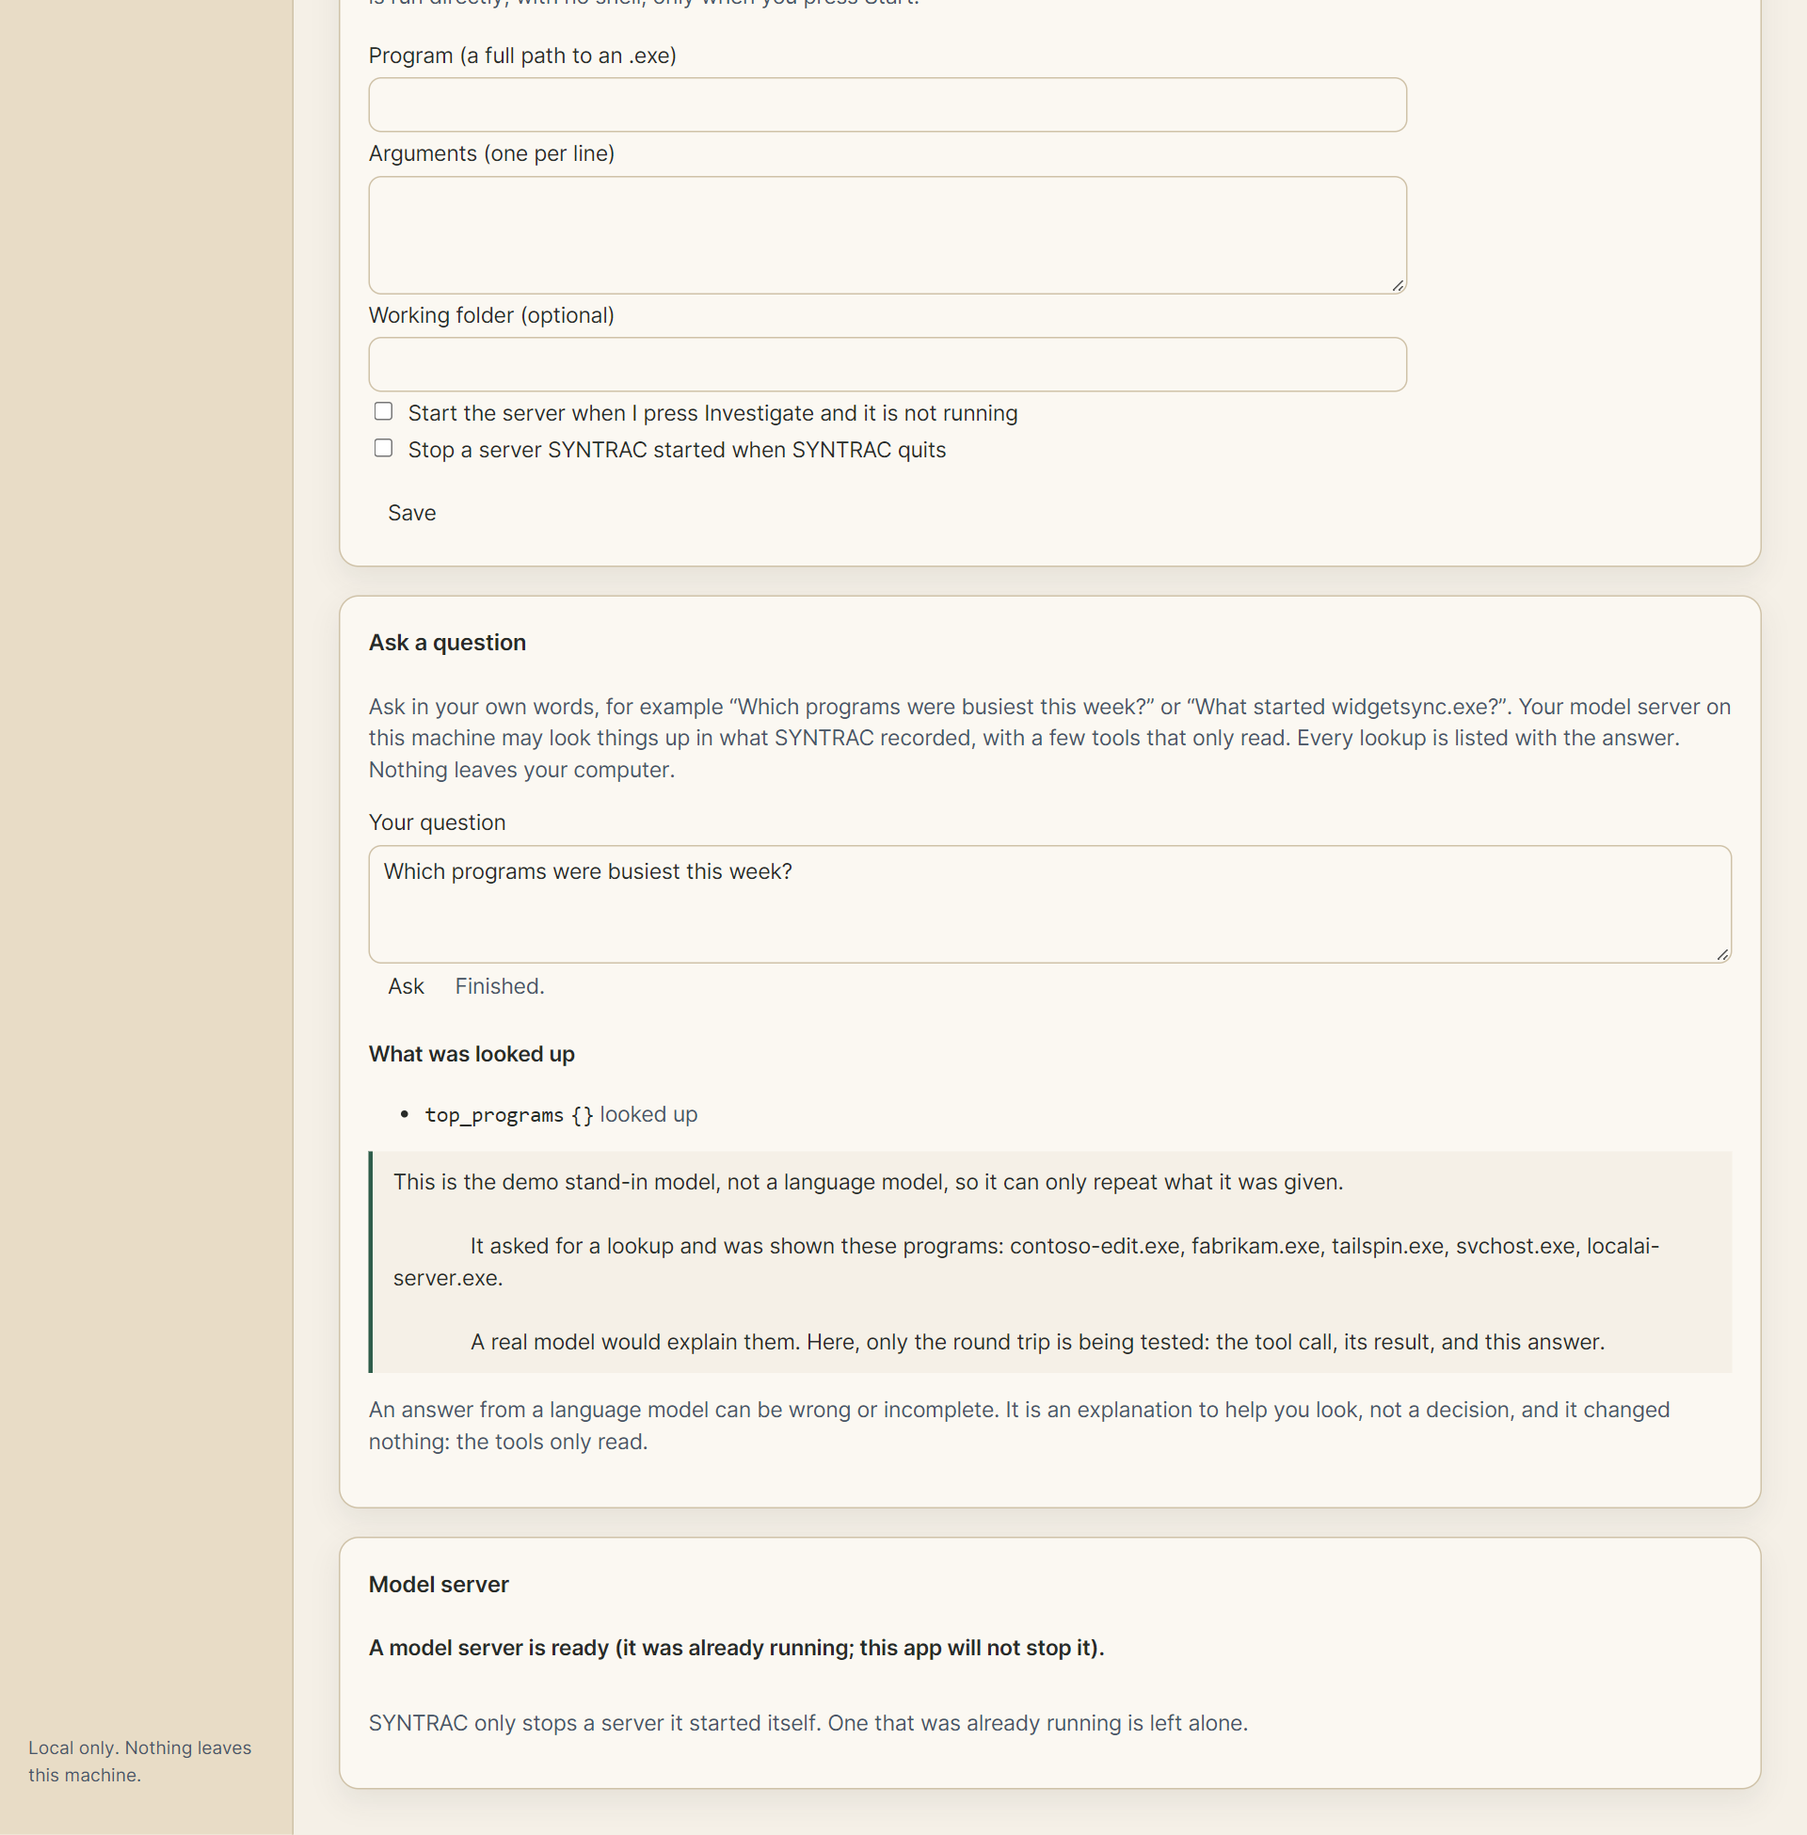
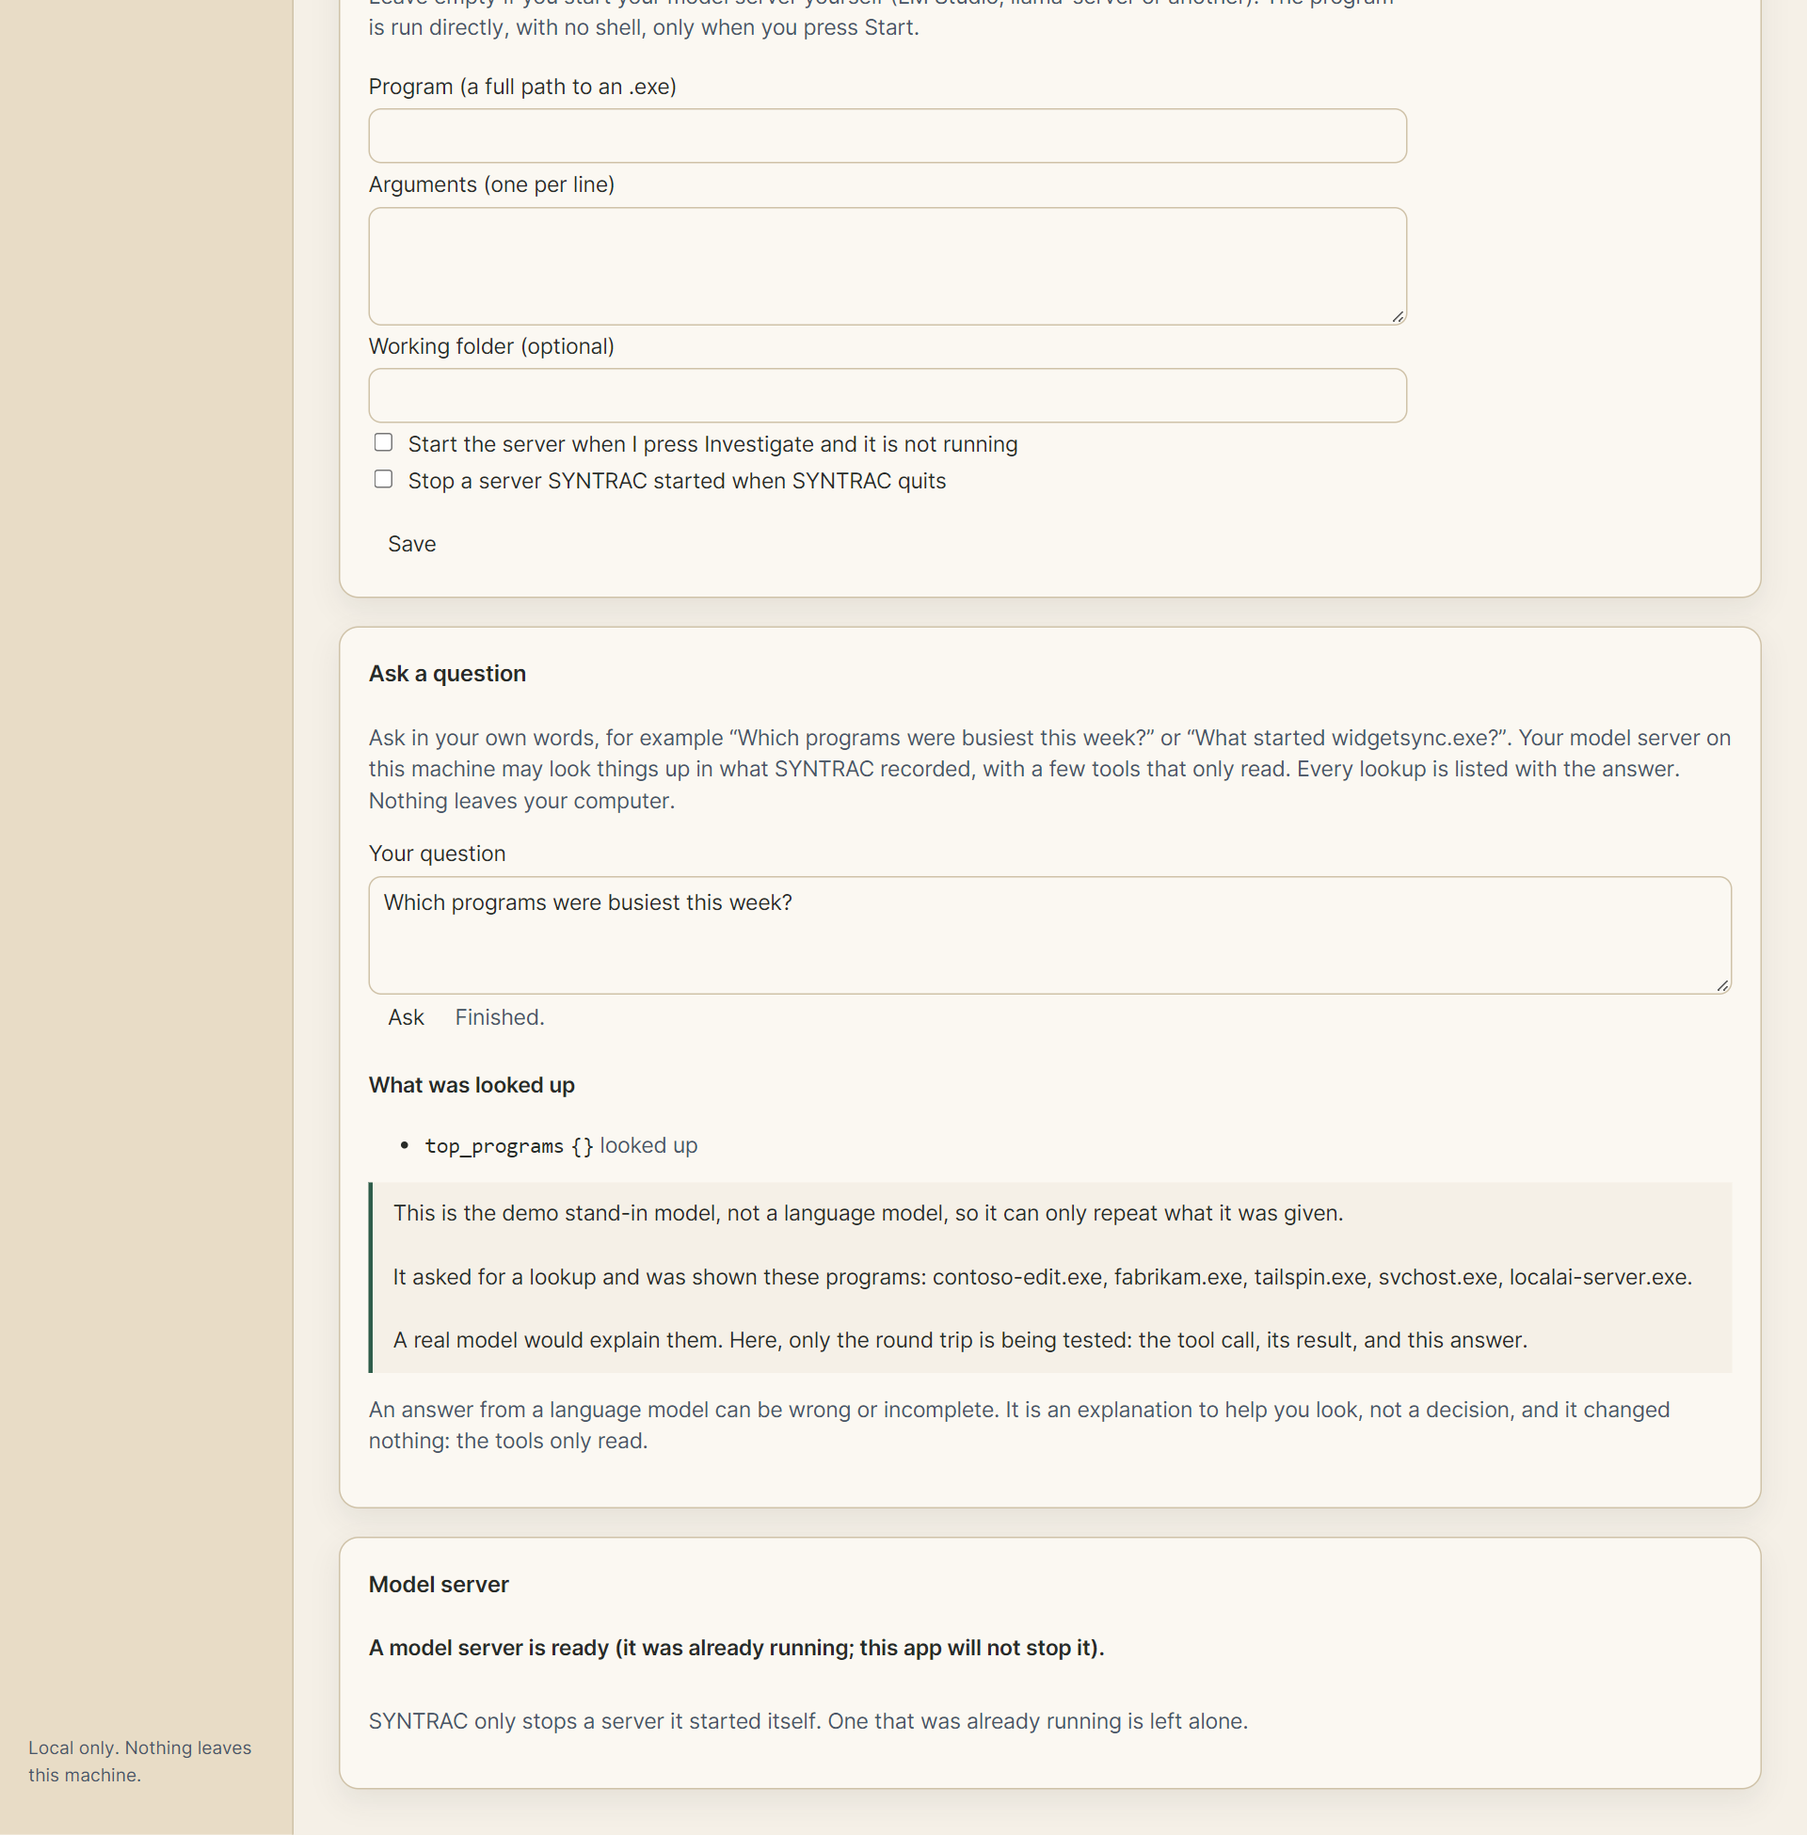
Question box: Stop shows at once, whole-answer wait, placeholders kept
Stop sets the question to cancelled immediately (a non-streamed turn cannot
be interrupted) and drops a late answer. A tool turn waits for the whole
answer instead of ten minutes for headers. The user and address
placeholders the tools write reach the model unchanged. The plan, guide and
README are brought up to date, and the stand-in text is tidied.

Claude-Session: https://claude.ai/code/session_014haUM8LbVwjUZU2iuuWaBV

diff --git a/app/src-tauri/src/question_job.rs b/app/src-tauri/src/question_job.rs
@@ -108,10 +108,13 @@ impl Job {
         self.cancel.load(Ordering::SeqCst)
     }
 
+    /// Ends the job in `phase`, unless Stop already did: a cancelled job stays cancelled whatever the worker finds out later.
     fn finish(&self, phase: Phase, error: Option<String>) {
         let mut state = self.lock();
-        state.phase = phase;
-        state.error = error;
+        if state.phase != Phase::Cancelled {
+            state.phase = phase;
+            state.error = error;
+        }
     }
 }
 
@@ -283,6 +286,12 @@ impl Questioner {
     pub fn cancel(&self, id: u64) {
         if let Some(job) = self.find(id) {
             job.cancel.store(true, Ordering::SeqCst);
+            // A turn of a slow model can take minutes and cannot be interrupted, so the page is told now; the worker's late result is dropped.
+            let mut state = job.lock();
+            if matches!(state.phase, Phase::Waiting | Phase::Running) {
+                state.phase = Phase::Cancelled;
+                state.stopped = Some(stop_name(StopReason::Cancelled));
+            }
         }
     }
 
@@ -317,7 +326,12 @@ fn run(
             Err(WaitEnd::Failed(message)) => return job.finish(Phase::Failed, Some(message)),
         }
     }
-    job.lock().phase = Phase::Running;
+    {
+        let mut state = job.lock();
+        if state.phase == Phase::Waiting {
+            state.phase = Phase::Running;
+        }
+    }
     match run_question_loop(server, registry, setup, question, job) {
         Ok(outcome) => record_outcome(job, outcome),
         Err(_) if job.cancelled() => job.finish(Phase::Cancelled, None),
@@ -332,6 +346,10 @@ fn run(
 fn record_outcome(job: &Job, outcome: LoopOutcome) {
     let phase = if outcome.stopped == StopReason::Cancelled { Phase::Cancelled } else { Phase::Done };
     let mut state = job.lock();
+    if state.phase == Phase::Cancelled {
+        // Stop was pressed while the model was still working: what arrives now is not shown.
+        return;
+    }
     state.answer = outcome.answer;
     state.truncated = outcome.cut_off;
     state.reasoning_chars = outcome.reasoning_chars;

diff --git a/app/src-tauri/tests/question_job.rs b/app/src-tauri/tests/question_job.rs
@@ -254,3 +254,44 @@ fn every_call_the_model_made_is_listed_for_the_page() {
     let view = finished(&questioner, id);
     assert_eq!(view.calls.iter().map(|c| c.name.as_str()).collect::<Vec<_>>(), ["top_programs"]);
 }
+
+/// A model whose turn does not return until it is released (or a few seconds pass), like a slow model thinking for minutes.
+struct Gate(Arc<std::sync::atomic::AtomicBool>);
+
+impl LlmService for Gate {
+    fn state(&self) -> ServerState {
+        ServerState::Ready
+    }
+
+    fn stream_chat(&self, _: &ChatRequest, _: &mut dyn FnMut(StreamEvent) -> Flow) -> Result<(), LlmError> {
+        Err(LlmError::BadResponse("not streamed".into()))
+    }
+
+    fn chat_turn(&self, _: &TurnRequest) -> Result<TurnReply, LlmError> {
+        let begin = Instant::now();
+        while !self.0.load(std::sync::atomic::Ordering::SeqCst) && begin.elapsed() < Duration::from_secs(5) {
+            std::thread::sleep(Duration::from_millis(5));
+        }
+        says("a late answer")
+    }
+}
+
+#[test]
+fn stop_shows_at_once_even_while_a_turn_is_still_being_waited_for_and_the_late_answer_is_dropped() {
+    let release = Arc::new(std::sync::atomic::AtomicBool::new(false));
+    let gate = Arc::clone(&release);
+    let service: ServiceFactory = Arc::new(move |_| Box::new(Gate(Arc::clone(&gate))));
+    let questioner = questioner(service, true);
+    let id = questioner.start("What is busy?").unwrap();
+
+    questioner.cancel(id);
+    let at_once = questioner.poll(id).unwrap();
+    assert_eq!(at_once.phase, "cancelled", "the page must not keep saying the model is working");
+    assert_eq!(at_once.stopped.as_deref(), Some("cancelled"));
+
+    release.store(true, std::sync::atomic::Ordering::SeqCst);
+    std::thread::sleep(Duration::from_millis(100));
+    let later = questioner.poll(id).unwrap();
+    assert_eq!(later.phase, "cancelled");
+    assert_eq!(later.answer, "", "an answer that arrives after Stop is not shown");
+}

diff --git a/crates/syntrac-core/src/question_loop.rs b/crates/syntrac-core/src/question_loop.rs
@@ -26,6 +26,8 @@ const CUT_NOTE_RESERVE: usize = 64;
 /// How much of a call's arguments the page is shown.
 const SHOWN_ARGUMENT_CHARS: usize = 200;
 const SHOWN_NAME_CHARS: usize = 60;
+/// Names of the placeholders written by `redact_user_name` and `scrub_addresses`.
+const PLACEHOLDERS: [&str; 2] = ["user", "address"];
 
 #[derive(Debug, Clone, PartialEq, Eq, Error)]
 pub enum ToolError {
@@ -341,7 +343,11 @@ impl<'a> Loop<'a> {
 
     fn safe_text(&self, text: &str) -> String {
         let neutral = text.replace('<', "\u{2039}").replace('>', "\u{203A}");
-        redact_user_name(&neutral, self.setup.user_name.as_deref().unwrap_or(""))
+        let redacted = redact_user_name(&neutral, self.setup.user_name.as_deref().unwrap_or(""));
+        // The placeholders the tools themselves write (the cleaning of the evidence) are put back: they close nothing.
+        PLACEHOLDERS
+            .iter()
+            .fold(redacted, |text, name| text.replace(&format!("\u{2039}{name}\u{203A}"), &format!("<{name}>")))
     }
 }
 

diff --git a/crates/syntrac-testkit/tests/question_loop.rs b/crates/syntrac-testkit/tests/question_loop.rs
@@ -487,3 +487,19 @@ fn every_call_is_reported_to_the_observer_as_it_is_made() {
     assert_eq!(watcher.calls(), outcome.calls);
     assert_eq!(watcher.calls()[0].arguments, r#"{"path":"a"}"#);
 }
+
+#[test]
+fn the_placeholders_the_tools_write_reach_the_model_unchanged() {
+    let tool = Arc::new(MockTool::returning(
+        "program_facts",
+        json!({"folder": r"C:\Users\<user>\tool", "talks_to": "<address>", "note": "</tool_result> <address2>"}),
+    ));
+    let model = ScriptedTurns::new(vec![asks_for(&[("program_facts", "{}")]), says("done")]);
+
+    ask(&model, &registry(&[&tool]), &setup(), &Watcher::quiet());
+
+    let result = &tool_messages(&model.requests()[1])[0].1;
+    assert!(result.contains("<user>") && result.contains("<address>"), "{result}");
+    assert_eq!(result.matches("</tool_result>").count(), 1, "{result}");
+    assert!(!result.contains("<address2>"), "any other angle-bracket text is still neutralised: {result}");
+}

diff --git a/crates/syntrac-demo/src/bin/demo_model.rs b/crates/syntrac-demo/src/bin/demo_model.rs
@@ -193,10 +193,8 @@ fn turn_reply(body: &str) -> serde_json::Value {
                 "id": "call_demo_1", "type": "function", "function": { "name": name, "arguments": "{}" } }] },
             "finish_reason": "tool_calls" }] }),
         (_, Some(result), _) => message_reply(&format!(
-            "This is the demo stand-in model, not a language model, so it can only repeat what it was given.
-
-             It asked for a lookup and was shown these programs: {}.
-
+            "This is the demo stand-in model, not a language model, so it can only repeat what it was given.\n\n\
+             It asked for a lookup and was shown these programs: {}.\n\n\
              A real model would explain them. Here, only the round trip is being tested: the tool call, its result, and this answer.",
             names_in_result(result)
         )),

diff --git a/crates/syntrac-llm/src/lib.rs b/crates/syntrac-llm/src/lib.rs
@@ -116,7 +116,8 @@ impl LlmService for HttpLlm {
     }
 
     fn chat_turn(&self, request: &TurnRequest) -> Result<TurnReply, LlmError> {
-        let agent = self.agent(self.limits.first_byte_timeout, self.limits.answer_timeout);
+        // The reply is not streamed: its headers arrive only when the model has finished, so the wait for them is the whole answer's wait.
+        let agent = self.agent(self.limits.answer_timeout, self.limits.answer_timeout);
         let body = turn_body(request).to_string();
         let mut response = agent
             .post(&self.endpoint.api_url("/chat/completions"))

diff --git a/crates/syntrac-llm/tests/http_turn.rs b/crates/syntrac-llm/tests/http_turn.rs
@@ -126,6 +126,6 @@ fn a_server_that_is_not_running_is_reported_as_such() {
 #[test]
 fn a_server_that_never_answers_times_out() {
     let server = FakeServer::start(|_| fake_server::Reply { raw: String::new(), delay: Duration::from_secs(5) });
-    let limits = HttpLimits { first_byte_timeout: Duration::from_millis(200), ..HttpLimits::default() };
+    let limits = HttpLimits { answer_timeout: Duration::from_millis(200), ..HttpLimits::default() };
     assert_eq!(client_with(&server.endpoint(), limits).chat_turn(&turn(true)).unwrap_err(), LlmError::TimedOut);
 }

diff --git a/docs/PHASE5-PLAN.md b/docs/PHASE5-PLAN.md
@@ -8,7 +8,7 @@ before the commit. Pushed once per phase, when asked.
 | 0 | Split `api/types.ts` and `test/fakeApi.ts` by topic (no logic change) | done, `0ca0530` |
 | A1 | History, **Process tree**: who started whom (`aiChangeLog/phase-A1-process-tree.md`) | done, `991e183` |
 | A2 | History, **Connection map**: which programs talked to which networks (`aiChangeLog/phase-A2-connection-map.md`) | done, `48eb720` |
-| B | **L4e** free-form question box for the AI help, with read-only tools (`aiChangeLog/phase-B-question-box.md`) | built, committing |
+| B | **L4e** free-form question box for the AI help, with read-only tools (`aiChangeLog/phase-B-question-box.md`) | done, `16e2754` + `445c878` |
 | C | Windows **installer** (NSIS via Tauri) that installs the app and the service | next |
 
 Out of scope for now: a day timeline and a global search.
@@ -20,6 +20,8 @@ Out of scope for now: a day timeline and a global search.
 - **Safety:** no tool can write, start or stop anything. Arguments are validated; unknown tools are refused. Results get the same reductions as the
   current evidence (user name replaced, detail level respected), are cleaned and size-capped, and are marked as data in the prompt. Loopback only.
   The page lists every tool call that was made.
+- **As built:** four tools, not five: a program's destinations are part of `program_facts`. Tool turns are not streamed. Answers to questions are
+  not saved.
 - **Dependency:** OpenAI-style native tool calling, which some servers need a flag for (for example `--jinja` on `llama-server`). If the server does
   not support it, the box says so.
 

diff --git a/aiChangeLog/phase-B-question-box.md b/aiChangeLog/phase-B-question-box.md
@@ -29,6 +29,15 @@ only read. Off unless the AI help is on; nothing runs until **Ask** is pressed.
 - **Server without tool support.** llama-server answers an error when started without its template option; the page says so in generic terms and names that option. A server that ignores `tools` and answers in text is simply a final answer.
 - **Tools are not saved.** Unlike Investigate, answers to questions are not kept.
 
+## Review fixes (after the first commit)
+- Stop shows **at once**: a non-streamed turn cannot be interrupted, so `cancel` sets the job to cancelled immediately and a late answer is dropped (test with a model that blocks).
+- `chat_turn` waits for the whole answer, not 10 minutes for headers (the first-byte timeout only covers the headers, which a non-streamed reply sends last).
+- The `<user>` and `<address>` placeholders the tools write reach the model unchanged; any other angle-bracket text is still neutralised.
+- The stand-in model's text no longer has stray indentation.
+
+## Not yet checked
+The round trip has only run against the stand-in model. It has not been run against a real tool-calling server.
+
 ## Also fixed
 - Process tree (A1): the window is read newest first up to 20,000 processes; the view now says when more existed (commit `563c50d`).
 

diff --git a/docs/USER-GUIDE.md b/docs/USER-GUIDE.md
@@ -270,7 +270,7 @@ page lists every lookup under *What was looked up* (a refused one says why, a cu
 it. It uses at most six lookups and a limited time, then answers from what it gathered; **Stop** ends it. At the *Summary* detail level the
 tools give names and numbers only; *Full* adds addresses, hashes and command lines (with the values of arguments named like a token, password
 or key hidden). A tool can only read what SYNTRAC recorded: it never reads files from your disk, and it cannot change or start anything. Answers
-to questions are not saved. This needs a server and model that support **tool calling**: if yours does not, the box says so (for
+to questions are not saved. The setting *Start the server when I press Investigate* applies to **Ask** as well. This needs a server and model that support **tool calling**: if yours does not, the box says so (for
 `llama-server`, start it with the `--jinja` option and use a model whose chat template supports tools). Use **Investigate** instead if it does not.
 
 **If the server will not start or ends.** Set the **working folder** to the folder the server expects to run in: many servers read their

diff --git a/README.md b/README.md
@@ -92,13 +92,13 @@ was sent. SYNTRAC never talks to the Internet for this; detection never uses it;
   <img src="docs/images/ai-investigate.png" alt="Investigate on a finding: a small local model explains the evidence, says what could be harmless, what to check next and what is uncertain" width="900">
 </p>
 
+<sub>An answer from a small local model on the demo machine. [docs/USER-GUIDE.md](docs/USER-GUIDE.md) explains the settings and what is sent.</sub>
+
 <p align="center">
   <img src="docs/images/ai-question-box.png" alt="The question box: the tool call that was made, and the answer" width="900">
 </p>
 
 <sub>The question box on the demo machine, answered by a stand-in that only repeats what the tool returned.</sub>
-
-<sub>An answer from a small local model on the demo machine. [docs/USER-GUIDE.md](docs/USER-GUIDE.md) explains the settings and what is sent.</sub>
 
 <table>
   <tr>
